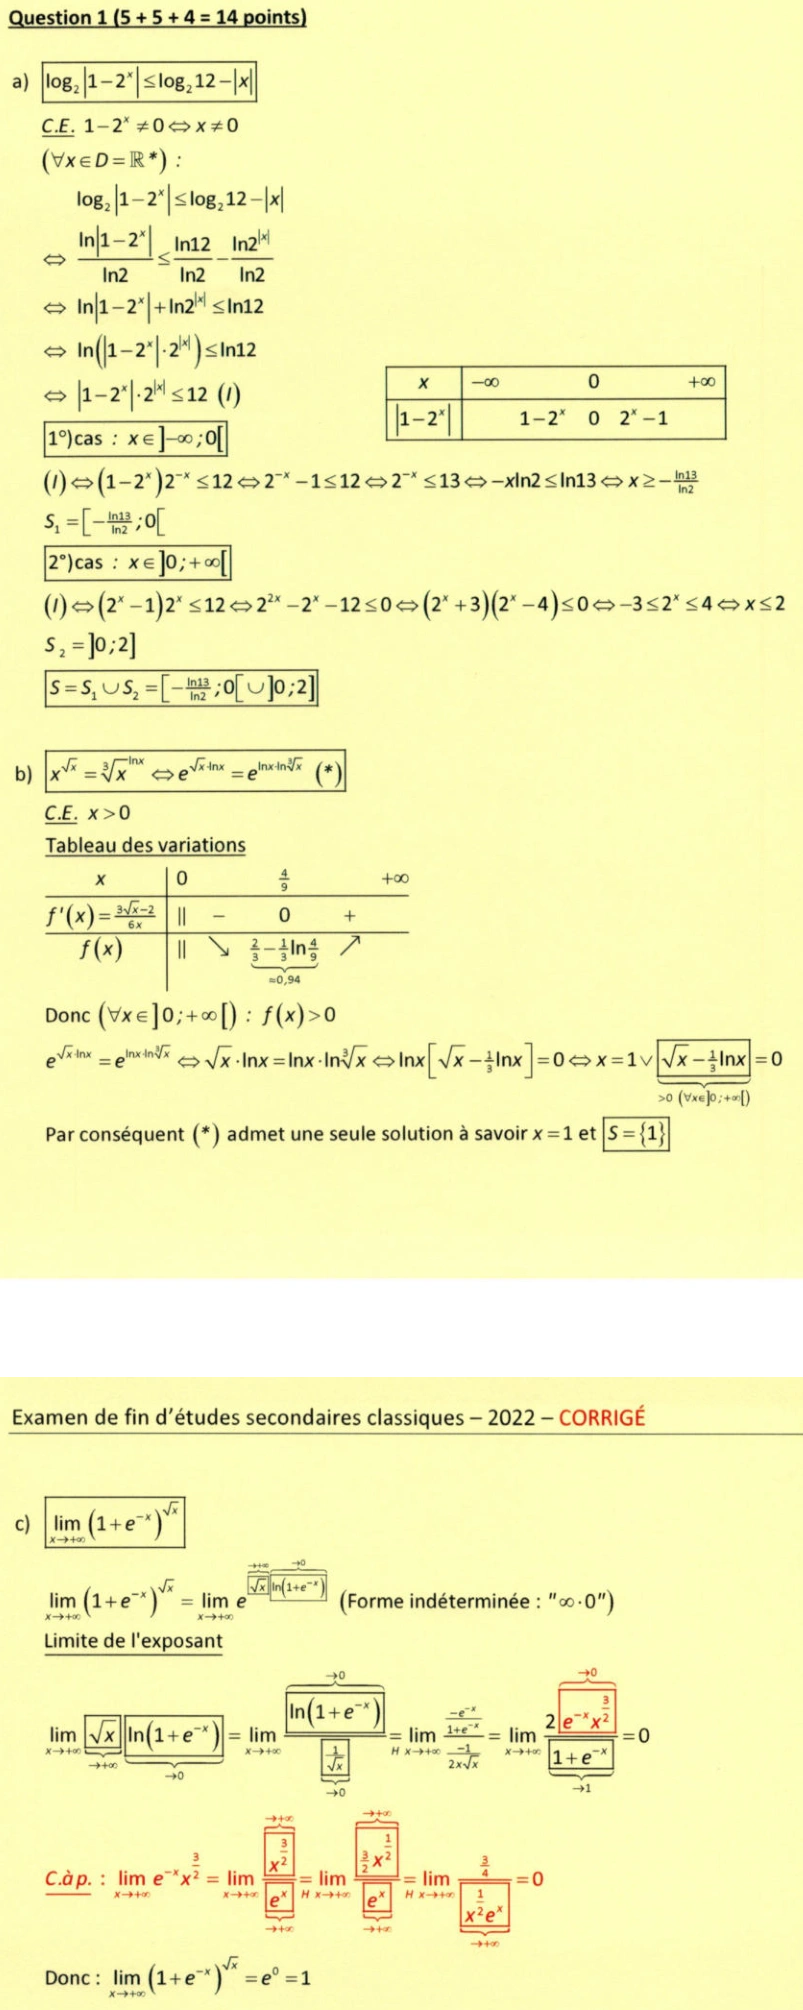
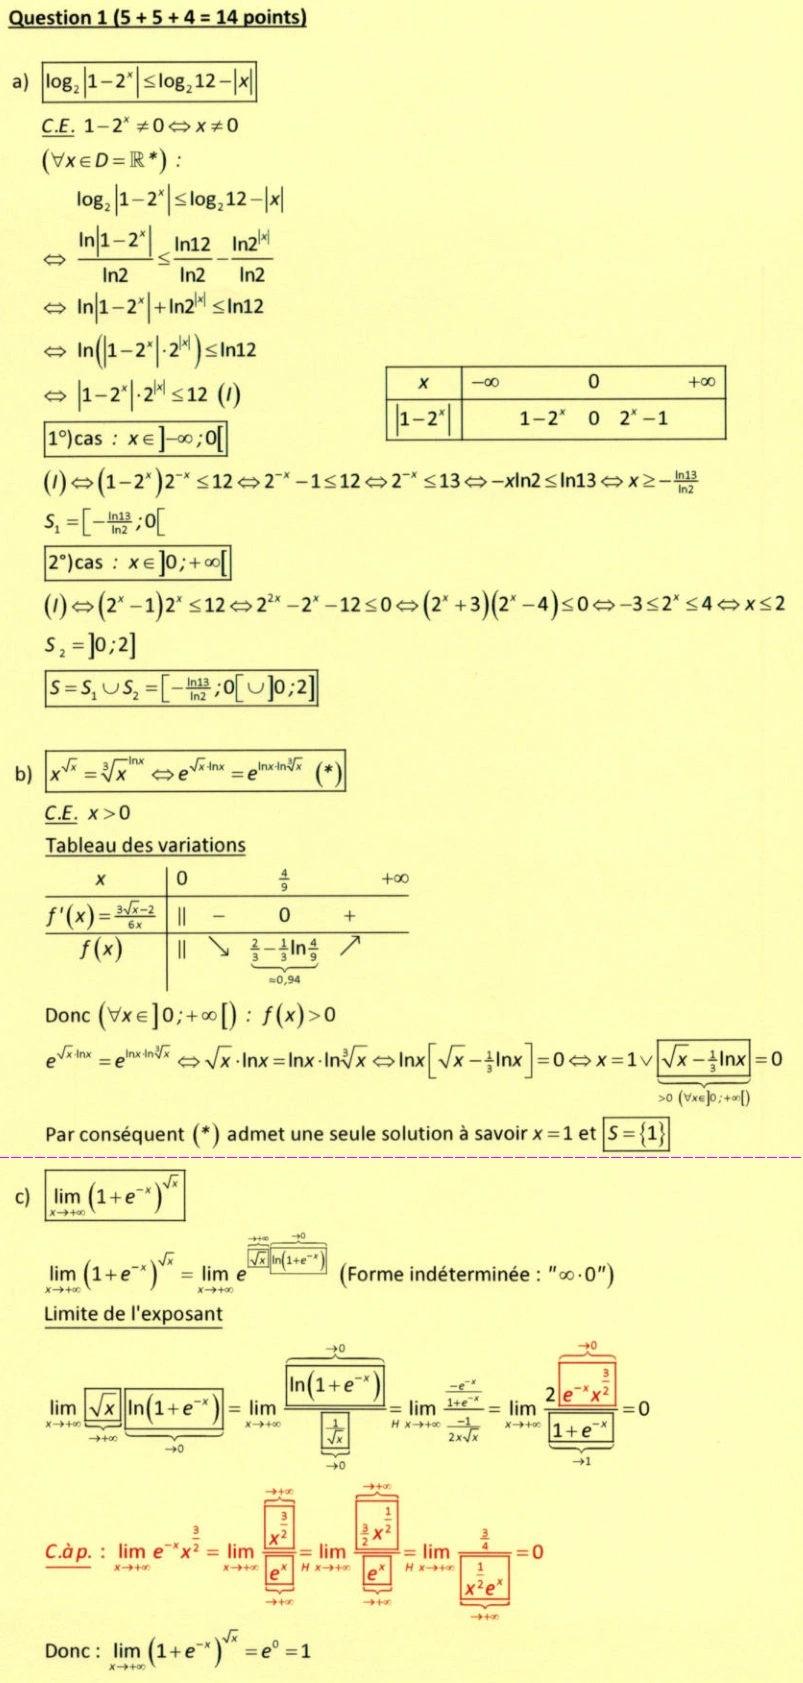
fix: cropping with lines

diff --git a/.github/scripts/crop-exams.py b/.github/scripts/crop-exams.py
@@ -5987,6 +5987,62 @@ def export_box(
         horizontal_cuts
         or vertical_cuts
     ):
+        painter = QPainter(
+            output
+        )
+
+        painter.setRenderHint(
+            QPainter.RenderHint.Antialiasing
+        )
+
+        pen = QPen(
+            Qt.GlobalColor.magenta
+        )
+
+        pen.setStyle(
+            Qt.PenStyle.DashLine
+        )
+
+        pen.setWidthF(
+            2.0
+        )
+
+        painter.setPen(
+            pen
+        )
+
+        # Horizontal cuts.
+        for start, end in horizontal_cuts:
+            y = start
+
+            painter.drawLine(
+                QPointF(
+                    0,
+                    y,
+                ),
+                QPointF(
+                    output.width(),
+                    y,
+                ),
+            )
+
+        # Vertical cuts.
+        for start, end in vertical_cuts:
+            x = start
+
+            painter.drawLine(
+                QPointF(
+                    x,
+                    0,
+                ),
+                QPointF(
+                    x,
+                    output.height(),
+                ),
+            )
+
+        painter.end()
+
         output = crop_removed_strips(
             output,
             horizontal_cuts,
